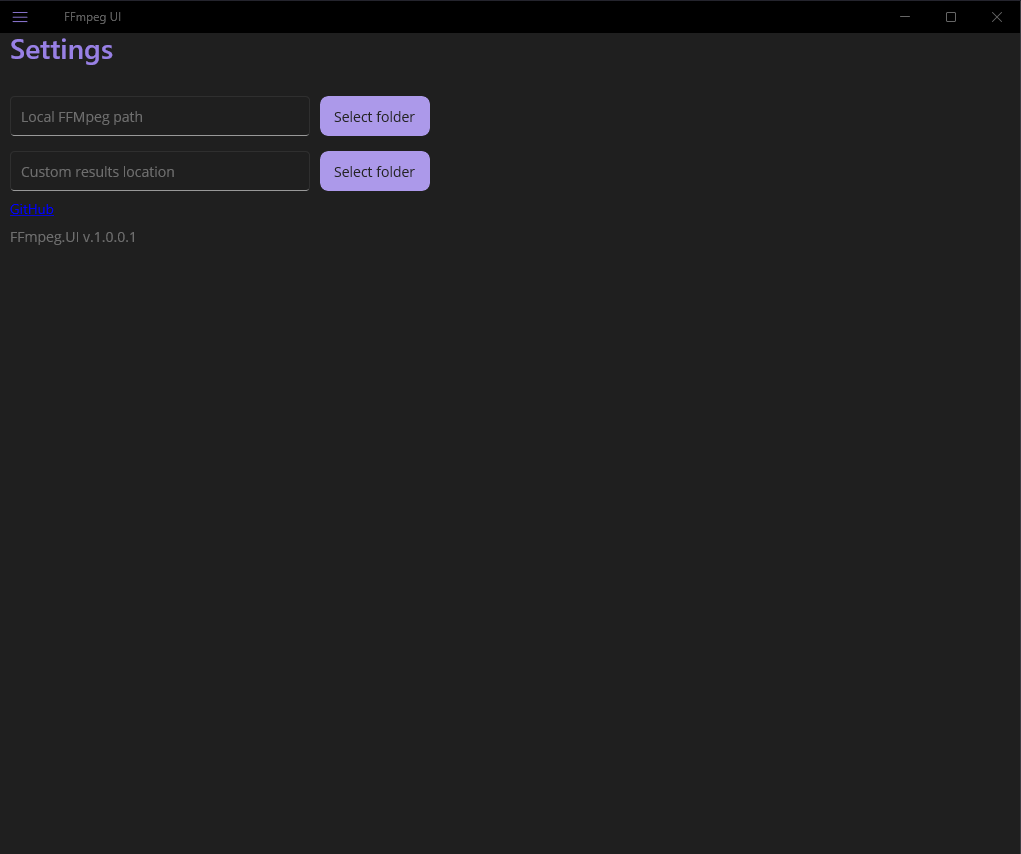
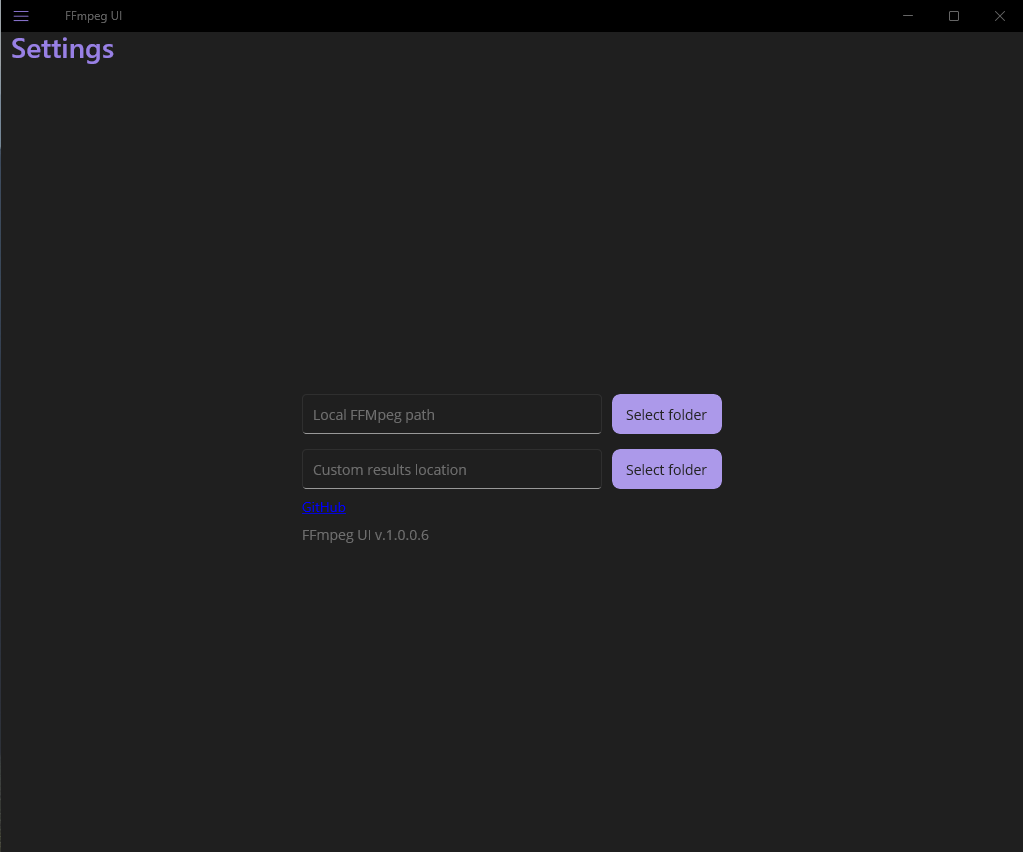
Updated UI

diff --git a/FFmpeg.UI/Views.Win/SettingsPage.xaml b/FFmpeg.UI/Views.Win/SettingsPage.xaml
@@ -11,61 +11,64 @@
     </ContentPage.Resources>
 
     <Grid Margin="10,10,10,10">
-        <Grid.RowDefinitions>
-            <RowDefinition Height="50"/>
-            <RowDefinition Height="50"/>
-            <RowDefinition Height="25"/>
-            <RowDefinition Height="30"/>
-        </Grid.RowDefinitions>
+        <Grid HorizontalOptions="Center"
+              VerticalOptions="Center">
+            <Grid.RowDefinitions>
+                <RowDefinition Height="50"/>
+                <RowDefinition Height="50"/>
+                <RowDefinition Height="25"/>
+                <RowDefinition Height="30"/>
+            </Grid.RowDefinitions>
 
-        <HorizontalStackLayout>
-            <Entry IsReadOnly="True"
-                   Text="{Binding FfmpegLocation, Source={StaticResource SettingsViewModel}}"
-                   Placeholder="Local FFMpeg path"
-                   ClearButtonVisibility="WhileEditing" 
-                   HeightRequest="40"
-                   WidthRequest="300"/>
+            <HorizontalStackLayout>
+                <Entry IsReadOnly="True"
+                       Text="{Binding FfmpegLocation, Source={StaticResource SettingsViewModel}}"
+                       Placeholder="Local FFMpeg path"
+                       ClearButtonVisibility="WhileEditing" 
+                       HeightRequest="40"
+                       WidthRequest="300"/>
 
-            <Button Text="Select folder"
-                    Margin="10,0,0,0"
-                    MaximumHeightRequest="40"
-                    Command="{Binding SelectFFMpegLocationCommand, Source={StaticResource SettingsViewModel}}"/>
-        </HorizontalStackLayout>
+                <Button Text="Select folder"
+                        Margin="10,0,0,0"
+                        MaximumHeightRequest="40"
+                        Command="{Binding SelectFFMpegLocationCommand, Source={StaticResource SettingsViewModel}}"/>
+            </HorizontalStackLayout>
 
-        <HorizontalStackLayout Grid.Row="1"
-                               Margin="0,10,0,0">
-            <Entry IsReadOnly="True"
-                   Text="{Binding ResultsFolder, Source={StaticResource SettingsViewModel}}"
-                   Placeholder="Custom results location"
-                   ClearButtonVisibility="WhileEditing" 
-                   HeightRequest="40"
-                   WidthRequest="300"/>
+            <HorizontalStackLayout Grid.Row="1"
+                       Margin="0,10,0,0">
+                <Entry IsReadOnly="True"
+                       Text="{Binding ResultsFolder, Source={StaticResource SettingsViewModel}}"
+                       Placeholder="Custom results location"
+                       ClearButtonVisibility="WhileEditing" 
+                       HeightRequest="40"
+                       WidthRequest="300"/>
 
-            <Button Text="Select folder"
-                    Margin="10,0,0,0"
-                    MaximumHeightRequest="40"
-                    Command="{Binding SelectCustomResultsFolderCommand, Source={StaticResource SettingsViewModel}}"/>
-        </HorizontalStackLayout>
+                <Button Text="Select folder"
+                        Margin="10,0,0,0"
+                        MaximumHeightRequest="40"
+                        Command="{Binding SelectCustomResultsFolderCommand, Source={StaticResource SettingsViewModel}}"/>
+            </HorizontalStackLayout>
 
-        <Label Grid.Row="2"
-               Margin="0,10,0,0">
-            <Label.FormattedText>
-                <FormattedString>
-                    <Span Text="GitHub"
-                          TextColor="Blue"
-                          TextDecorations="Underline">
-                        <Span.GestureRecognizers>
-                            <TapGestureRecognizer Command="{Binding TapCommand, Source={StaticResource SettingsViewModel}}"
-                                                  CommandParameter="https://github.com/bexolder2/FFMpeg.UI" />
-                        </Span.GestureRecognizers>
-                    </Span>
-                </FormattedString>
-            </Label.FormattedText>
-        </Label>
+            <Label Grid.Row="2"
+                   Margin="0,10,0,0">
+                <Label.FormattedText>
+                    <FormattedString>
+                        <Span Text="GitHub"
+                              TextColor="Blue"
+                              TextDecorations="Underline">
+                            <Span.GestureRecognizers>
+                                <TapGestureRecognizer Command="{Binding TapCommand, Source={StaticResource SettingsViewModel}}"
+                                                      CommandParameter="https://github.com/bexolder2/FFMpeg.UI" />
+                            </Span.GestureRecognizers>
+                        </Span>
+                    </FormattedString>
+                </Label.FormattedText>
+            </Label>
 
-        <Label Grid.Row="3"
-               Margin="0,10,0,0"
-               Text="{Binding Version, Source={StaticResource SettingsViewModel}}"
-               TextColor="{StaticResource Gray500}"/>
+            <Label Grid.Row="3"
+                   Margin="0,10,0,0"
+                   Text="{Binding Version, Source={StaticResource SettingsViewModel}}"
+                   TextColor="{StaticResource Gray500}"/>
+        </Grid>
     </Grid>
 </ContentPage>
